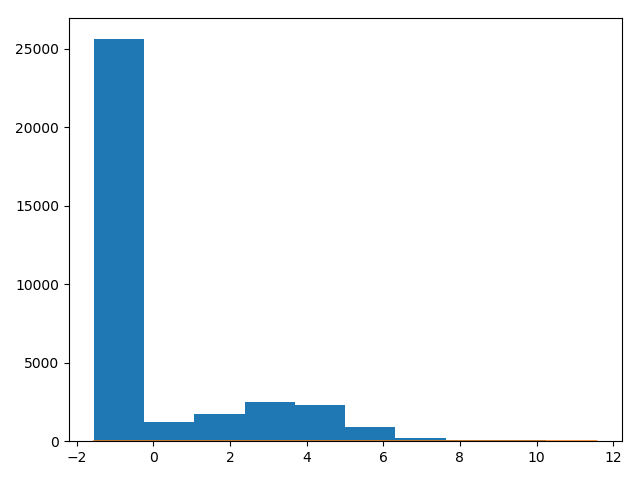
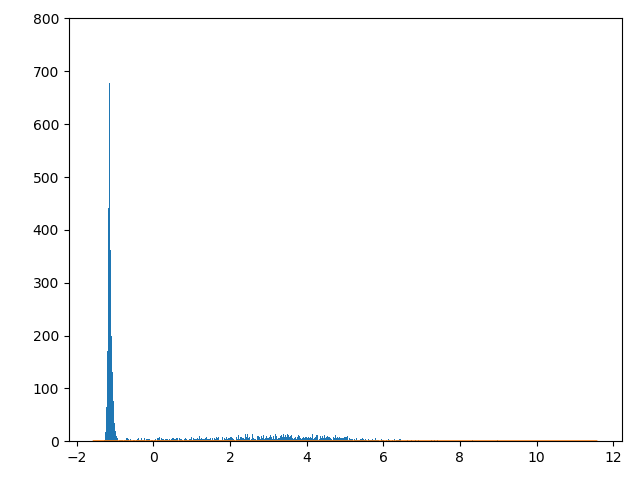
Day 5 Lunch: Log2+1 transformed FPKM residuals and figure

diff --git a/day5-lunch/day5-exercise6.py b/day5-lunch/day5-exercise6.py
@@ -39,12 +39,13 @@ mu = np.mean(results.resid)
 sigma = np.std(results.resid)
 
 fig, ax = plt.subplots()
-n, bins, patches = ax.hist(x = results.resid)
+n, bins, patches = ax.hist(x = results.resid, bins = 3000)
 y = scipy.stats.norm.pdf(bins, mu, sigma)
 ax.plot(bins, y)
 ax.set_ylabel = "Frequency"
 ax.set_xlabel = "Value"
 ax.set_title = "Histogram of Residuals"
 fig.tight_layout()
+ax.set_ylim(0, 800)
 fig.savefig("day5-exercise6_log2residuals.png")
 plt.close(fig)
